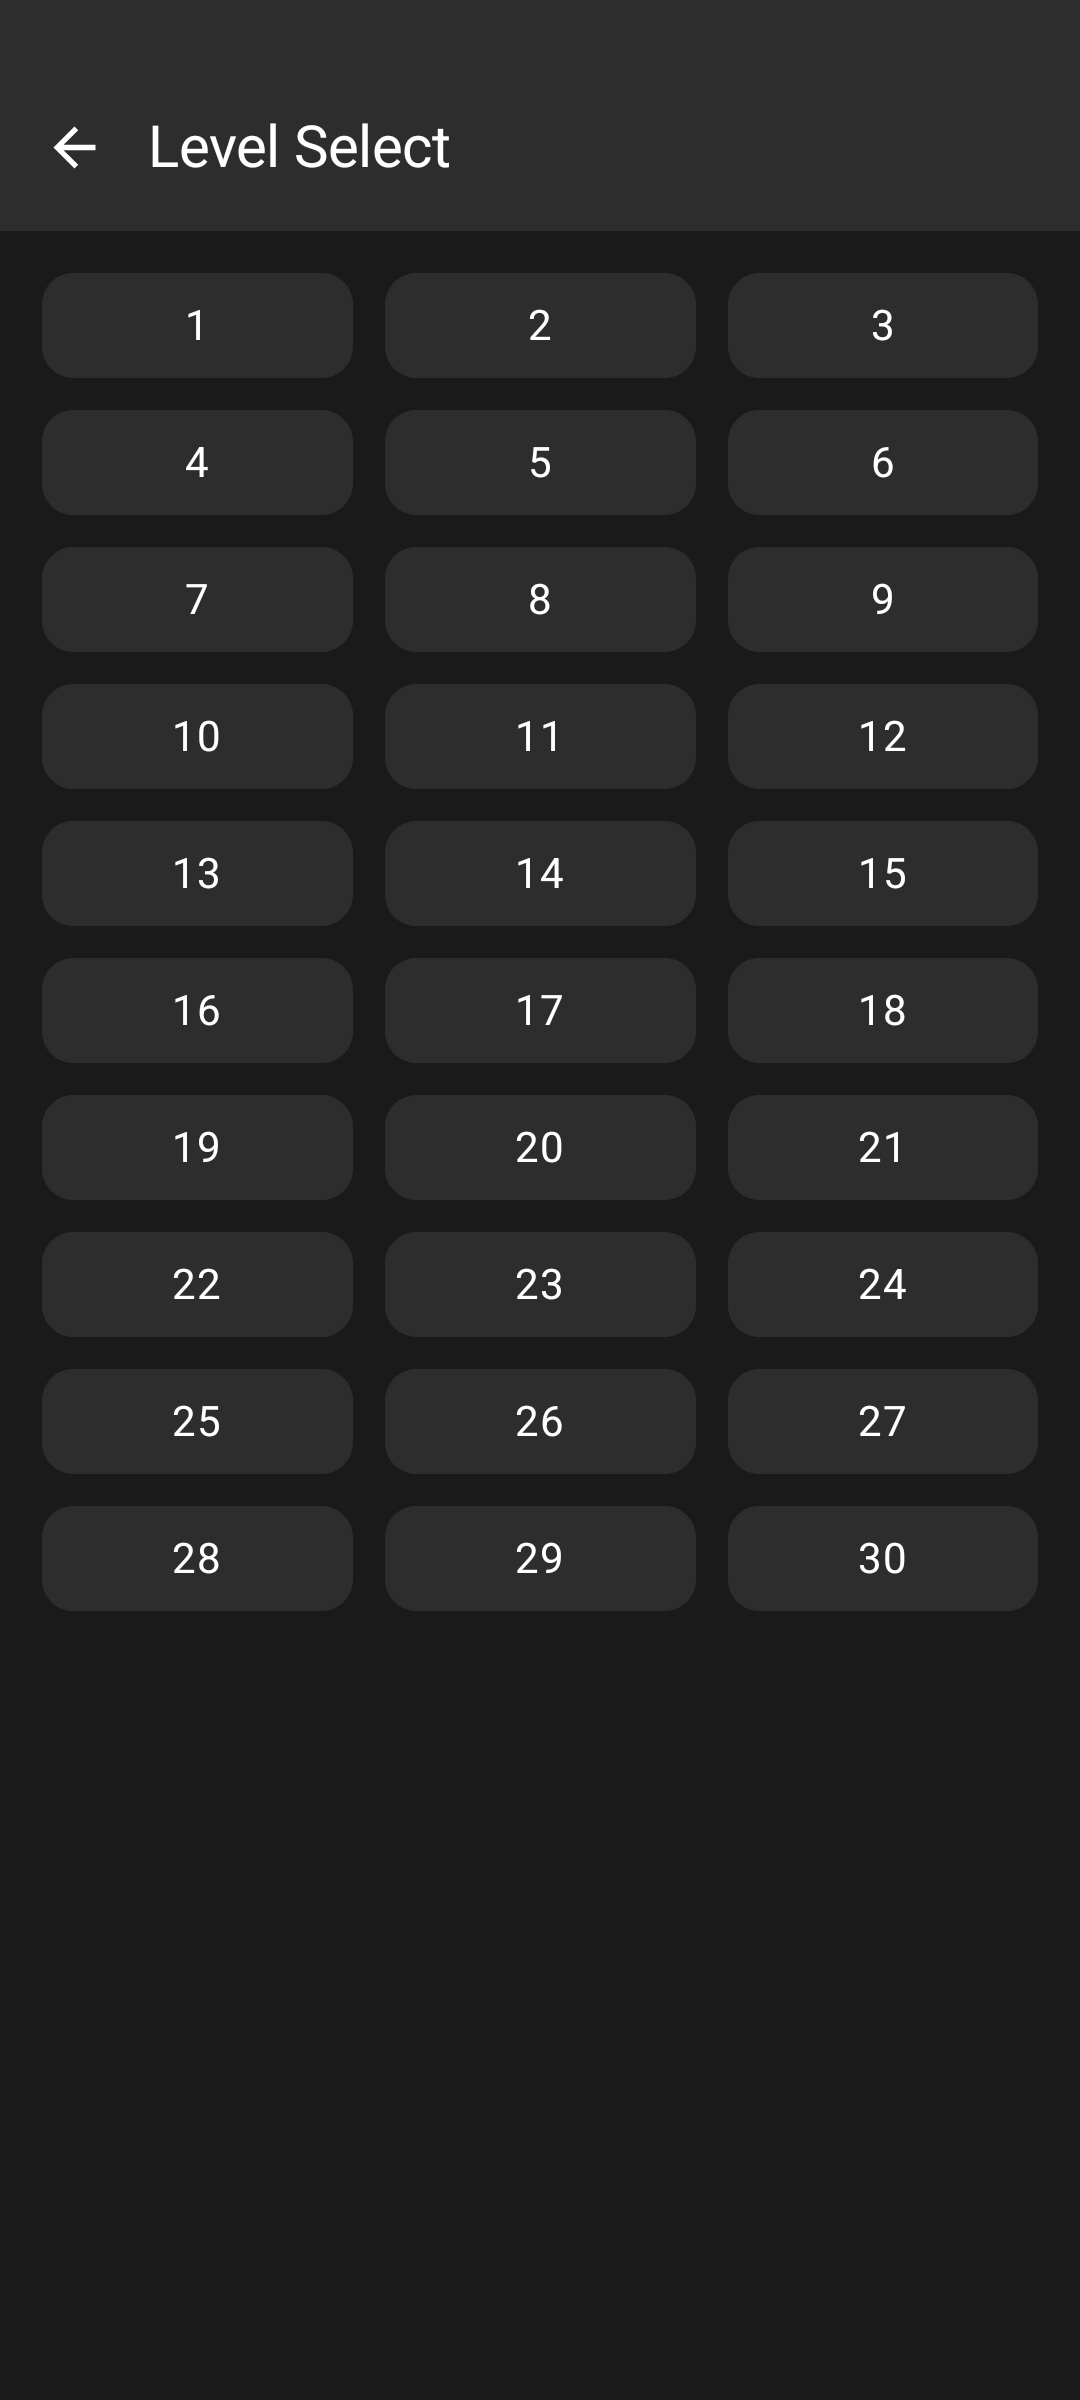
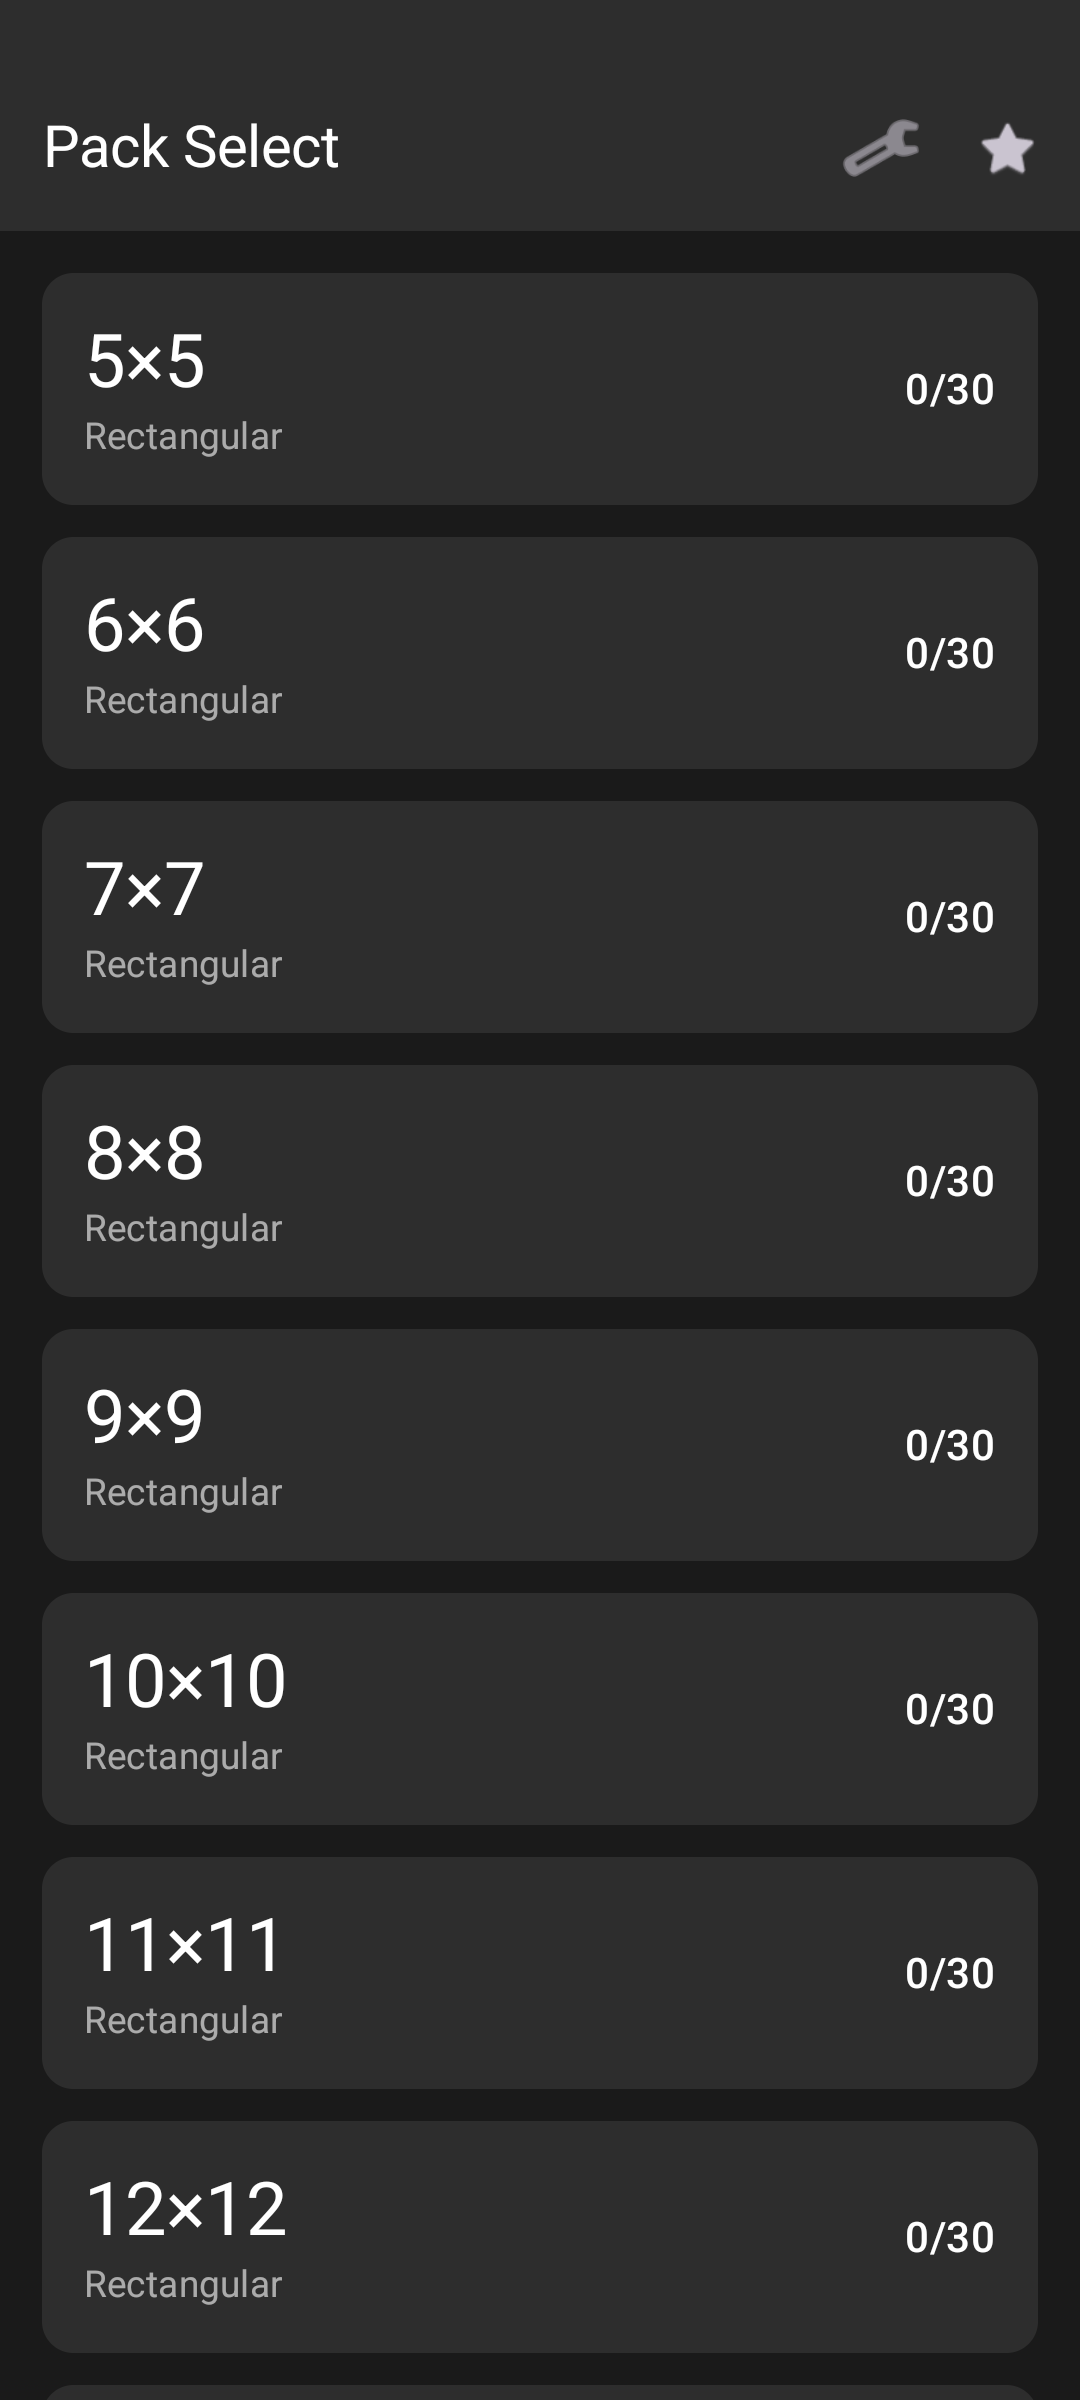
pipes: updated automated screenshot generation

diff --git a/games/pipes/src/androidTest/java/com/vayunmathur/games/pipes/MetadataScreenshots.kt b/games/pipes/src/androidTest/java/com/vayunmathur/games/pipes/MetadataScreenshots.kt
@@ -17,7 +17,7 @@ import java.io.File
 
 /**
  * Screenshot generator driven by `:games:pipes:metadata`. Order: gameplay board first,
- * then the level grid, then the pack selector (menu) last.
+ * then the pack selector (menu) last.
  */
 @RunWith(AndroidJUnit4::class)
 class MetadataScreenshots {
@@ -48,10 +48,10 @@ class MetadataScreenshots {
         val firstPack = LevelPack.PACKS[0].name
 
         // Pack selector is the launch screen — keep it as the last shot.
-        snap(3)
+        snap(2)
 
         composeRule.onNodeWithText(firstPack).performClick()
-        snap(2) // level grid
+        composeRule.waitForIdle()
 
         composeRule.onNodeWithText("1").performClick()
         snap(1) // gameplay board